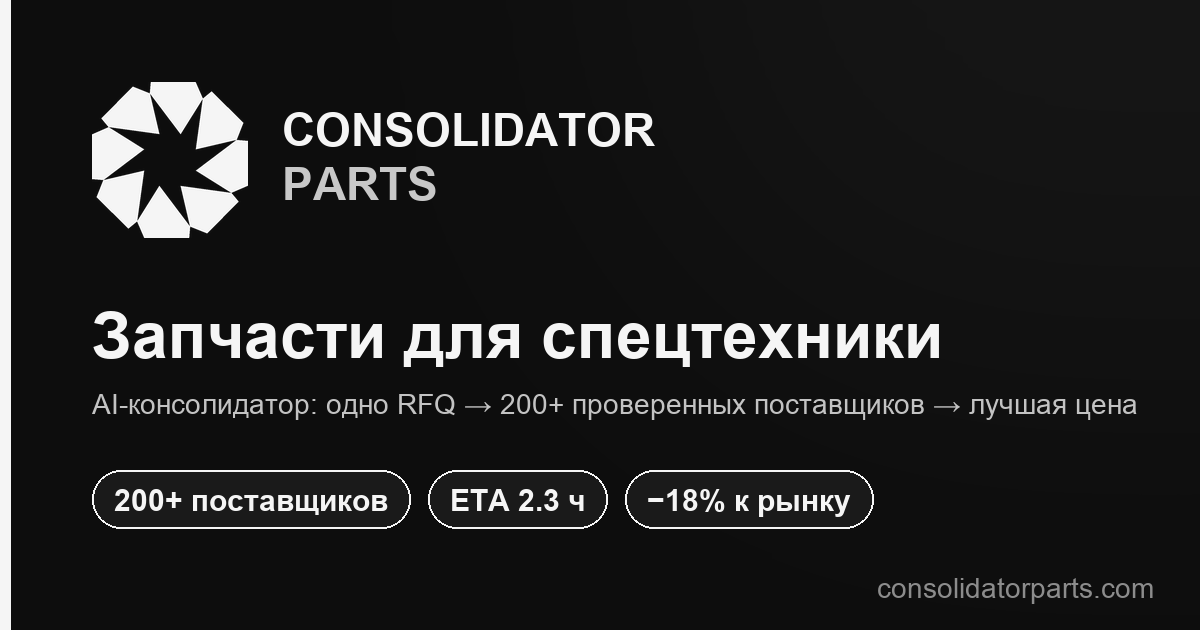
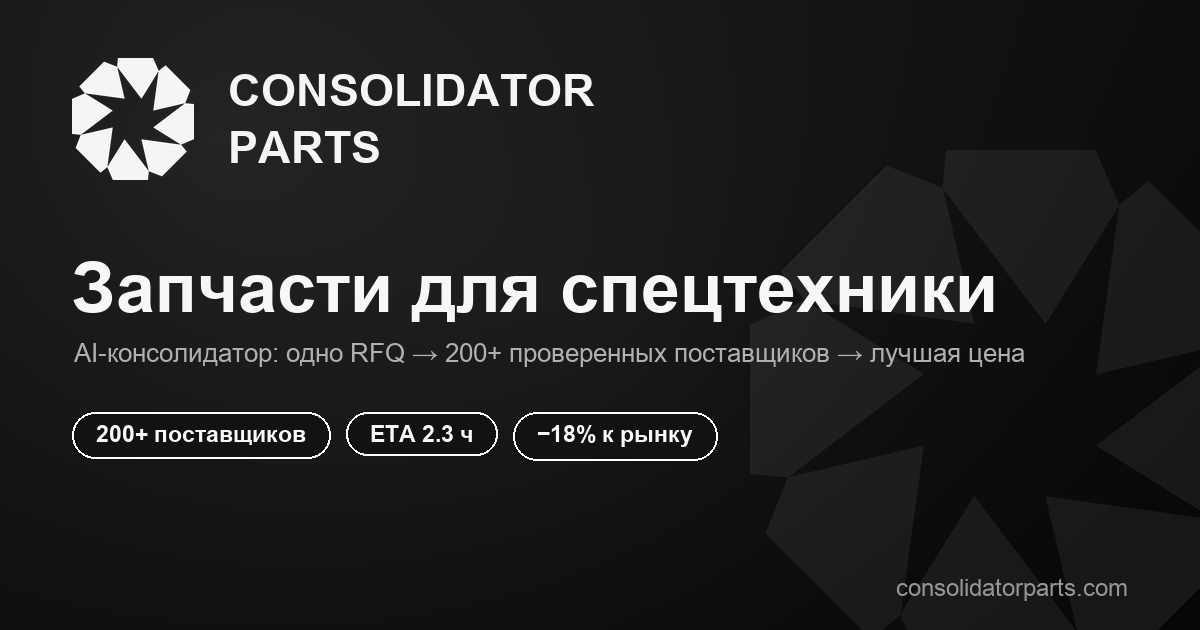
ui(brand): обновлена og-визитка для превью ссылки (ЧБ-градиент, крупнее лого+название)
- og-card.png: логотип и «CONSOLIDATOR PARTS» одним белым цветом, чуть крупнее
- читаемые тёмные плашки, без акцентной линии, эмблема-фактура справа
- gen_og_card.py: воспроизводимый генератор карточки из logo-icon-white.svg

diff --git a/static/brand/gen_og_card.py b/static/brand/gen_og_card.py
@@ -1,0 +1,153 @@
+#!/usr/bin/env python3
+"""Генератор og-card.png — визитка для превью ссылки в Telegram/соцсетях.
+
+ЧБ-градиент, чистый векторный логотип из logo-icon-white.svg,
+название «CONSOLIDATOR PARTS» одним белым цветом, читаемые тёмные плашки.
+1200×630 (стандарт og:image).
+
+Запуск:  /opt/homebrew/bin/python3.14 static/brand/gen_og_card.py
+"""
+import os
+import re
+from PIL import Image, ImageDraw, ImageFont
+
+HERE = os.path.dirname(os.path.abspath(__file__))
+OUT = os.path.join(HERE, "og-card.png")
+SVG = os.path.join(HERE, "logo-icon-white.svg")
+
+W, H = 1200, 630
+FONT_BOLD = "/System/Library/Fonts/Supplemental/Arial Bold.ttf"
+FONT_REG = "/System/Library/Fonts/Supplemental/Arial.ttf"
+
+# ---- размеры (чуть крупнее лого + название) ----
+LOGO = 122            # было 100
+NAME_PX = 45          # было 38
+MARGIN = 72
+
+
+def load_polygons():
+    txt = open(SVG, encoding="utf-8").read()
+    m = re.search(r'viewBox="([\d.\s]+)"', txt)
+    vb = [float(x) for x in m.group(1).split()]
+    vw, vh = vb[2], vb[3]
+    polys = []
+    for pts in re.findall(r'points="([\d.\s]+)"', txt):
+        nums = [float(x) for x in pts.split()]
+        polys.append(list(zip(nums[0::2], nums[1::2])))
+    return polys, vw, vh
+
+
+def draw_logo(canvas, x, y, size, color=(245, 245, 245, 255)):
+    """Рисуем логотип из SVG-полигонов: рендер в 8× и down-scale для сглаживания."""
+    SS = 8
+    s = size * SS
+    layer = Image.new("RGBA", (s, s), (0, 0, 0, 0))
+    d = ImageDraw.Draw(layer)
+    polys, vw, vh = load_polygons()
+    sx, sy = s / vw, s / vh
+    for poly in polys:
+        d.polygon([(px * sx, py * sy) for px, py in poly], fill=color)
+    layer = layer.resize((size, size), Image.LANCZOS)
+    canvas.alpha_composite(layer, (x, y))
+
+
+def gradient_bg():
+    """Диагональный ЧБ-градиент + лёгкий спотлайт + виньетка."""
+    import numpy as np
+    yy, xx = np.mgrid[0:H, 0:W].astype("float32")
+    # диагональ от верх-лево (светлее) к низ-право (темнее)
+    t = (xx / W * 0.55 + yy / H * 0.45)
+    base = 38 - t * 26           # 38 → ~12
+    # мягкий спотлайт слева-сверху за логотипом
+    cx, cy = W * 0.18, H * 0.22
+    r = np.sqrt((xx - cx) ** 2 + (yy - cy) ** 2)
+    spot = np.clip(1 - r / (W * 0.55), 0, 1) ** 2 * 18
+    val = np.clip(base + spot, 6, 60)
+    # виньетка по углам
+    vr = np.sqrt((xx - W / 2) ** 2 + (yy - H / 2) ** 2)
+    vig = np.clip(1 - vr / (W * 0.72), 0, 1) ** 1.5
+    val = val * (0.55 + 0.45 * vig)
+    arr = np.clip(val, 0, 255).astype("uint8")
+    rgb = np.dstack([arr, arr, arr])
+    return Image.fromarray(rgb, "RGB").convert("RGBA")
+
+
+def faint_emblem(canvas):
+    """Призрачная крупная эмблема справа — фактура, едва видна."""
+    polys, vw, vh = load_polygons()
+    size = 520
+    SS = 4
+    s = size * SS
+    layer = Image.new("RGBA", (s, s), (0, 0, 0, 0))
+    d = ImageDraw.Draw(layer)
+    sx, sy = s / vw, s / vh
+    for poly in polys:
+        d.polygon([(px * sx, py * sy) for px, py in poly], fill=(255, 255, 255, 16))
+    layer = layer.resize((size, size), Image.LANCZOS)
+    canvas.alpha_composite(layer, (W - size + 70, H - size + 40))
+
+
+def rounded_pill(draw, x, y, text, font, pad_x=24, pad_y=13):
+    tb = draw.textbbox((0, 0), text, font=font)
+    tw, th = tb[2] - tb[0], tb[3] - tb[1]
+    w = tw + pad_x * 2
+    h = th + pad_y * 2
+    r = h // 2
+    draw.rounded_rectangle([x, y, x + w, y + h], radius=r,
+                           fill=(18, 18, 20, 235), outline=(255, 255, 255, 92), width=2)
+    draw.text((x + pad_x - tb[0], y + pad_y - tb[1]), text,
+              font=font, fill=(248, 248, 248, 255))
+    return w, h
+
+
+def main():
+    img = gradient_bg()
+    faint_emblem(img)
+    draw = ImageDraw.Draw(img)
+
+    f_name = ImageFont.truetype(FONT_BOLD, NAME_PX)
+    f_h1 = ImageFont.truetype(FONT_BOLD, 70)
+    f_sub = ImageFont.truetype(FONT_REG, 26)
+    f_pill = ImageFont.truetype(FONT_BOLD, 23)
+    f_url = ImageFont.truetype(FONT_REG, 24)
+
+    # --- логотип + название (вертикально по центру друг друга) ---
+    logo_y = 58
+    draw_logo(img, MARGIN, logo_y, LOGO)
+    tx = MARGIN + LOGO + 34
+    # две строки названия, центрированы относительно лого
+    line_gap = 6
+    asc, desc = f_name.getmetrics()
+    line_h = asc + desc
+    block_h = line_h * 2 + line_gap
+    ny = logo_y + (LOGO - block_h) // 2
+    draw.text((tx, ny), "CONSOLIDATOR", font=f_name, fill=(245, 245, 245, 255))
+    draw.text((tx, ny + line_h + line_gap), "PARTS", font=f_name, fill=(245, 245, 245, 255))
+
+    # --- заголовок ---
+    draw.text((MARGIN, 248), "Запчасти для спецтехники", font=f_h1, fill=(247, 247, 247, 255))
+
+    # --- подзаголовок ---
+    draw.text((MARGIN + 2, 338),
+              "AI-консолидатор: одно RFQ → 200+ проверенных поставщиков → лучшая цена",
+              font=f_sub, fill=(176, 176, 178, 255))
+
+    # --- плашки ---
+    px = MARGIN
+    py = 412
+    for label in ("200+ поставщиков", "ETA 2.3 ч", "−18% к рынку"):
+        w, h = rounded_pill(draw, px, py, label, f_pill)
+        px += w + 16
+
+    # --- url в правом нижнем углу ---
+    url = "consolidatorparts.com"
+    ub = draw.textbbox((0, 0), url, font=f_url)
+    draw.text((W - MARGIN - (ub[2] - ub[0]), H - 56), url, font=f_url,
+              fill=(150, 150, 152, 255))
+
+    img.convert("RGB").save(OUT, "PNG")
+    print("saved", OUT, os.path.getsize(OUT), "bytes")
+
+
+if __name__ == "__main__":
+    main()
